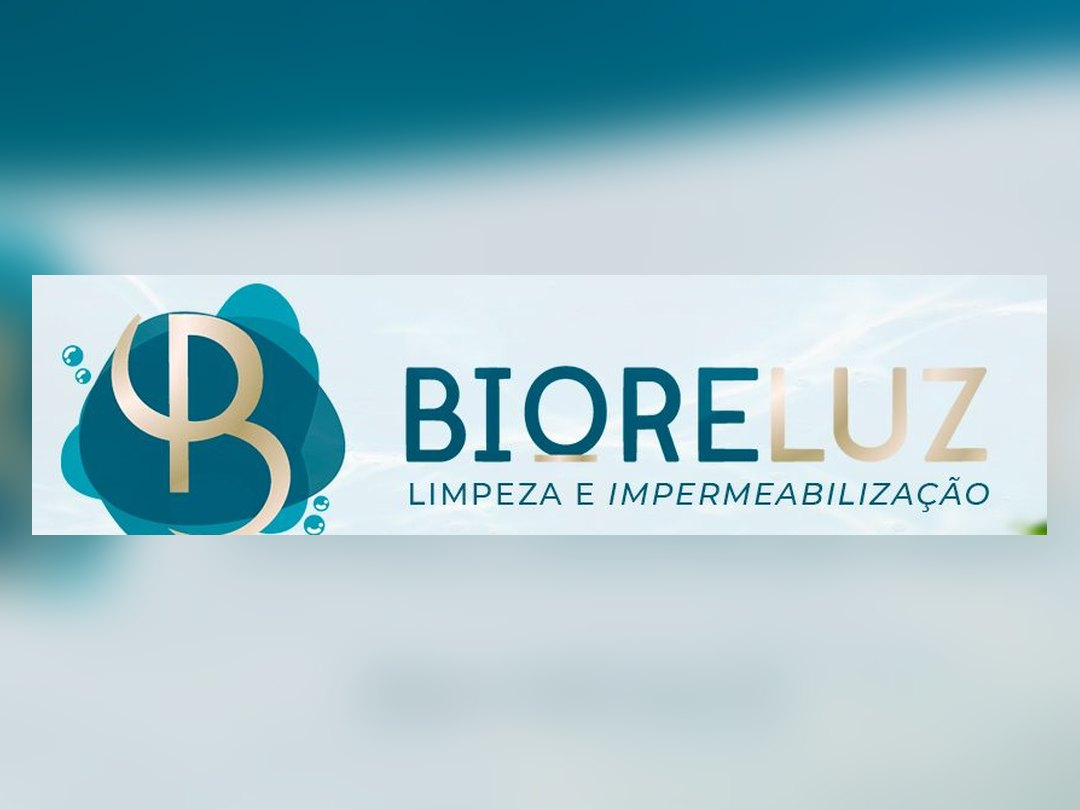
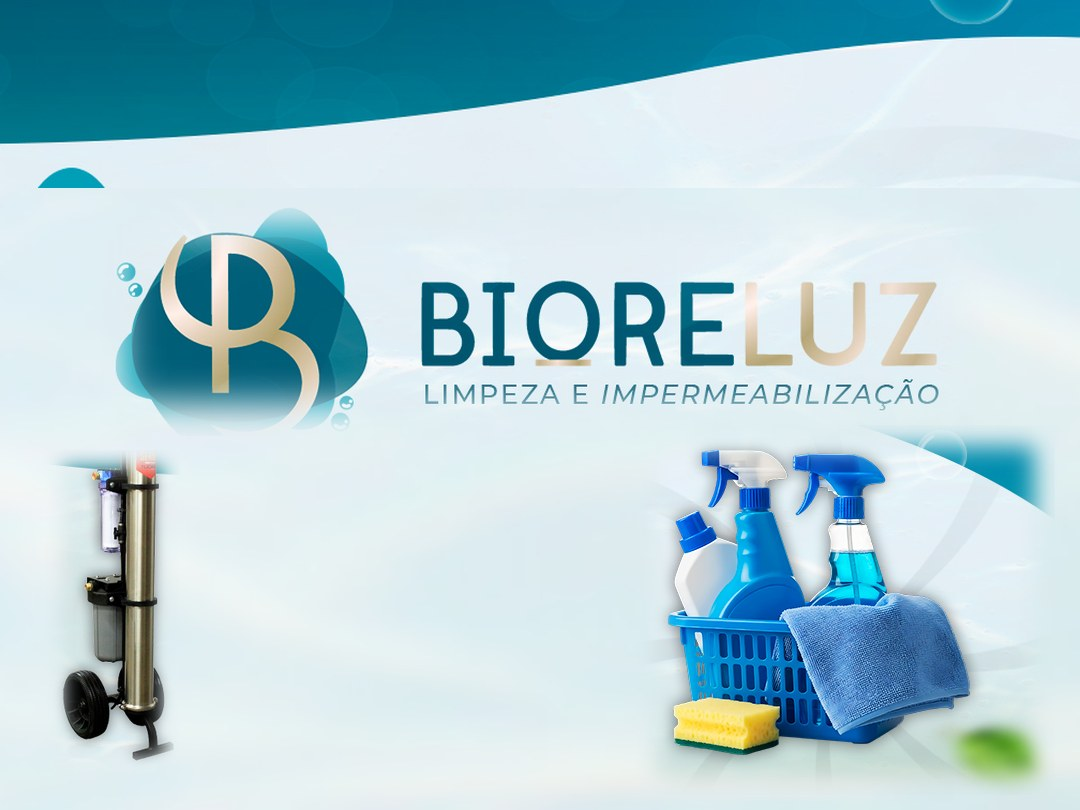
feat(clube): recorte mobile proprio da BioReluz e da Insurance & Sante
A versao mobile das duas era o banner largo encolhido dentro de um fundo
borrado (banners-mobile.py): no celular a marca ficava minuscula no meio
da tela. Agora a arte e remontada no 4:3 — fundo da propria marca ocupando
a tela e os elementos (logo, produtos, lista, familia) reposicionados em
tamanho util, com emenda suavizada.

Receita em scripts/banners-mobile-remontagem.py pra poder refazer quando a
agencia mandar arte nova.

diff --git a/scripts/banners-mobile-remontagem.py b/scripts/banners-mobile-remontagem.py
@@ -1,0 +1,78 @@
+# -*- coding: utf-8 -*-
+"""Recorte mobile das artes BioReluz e Insurance & Sante.
+
+Diferente do banners-mobile.py (que so encolhe a faixa larga dentro de um
+fundo borrado), aqui a arte e REMONTADA: fundo da propria marca ocupando a
+tela inteira e os elementos (logo, produtos, familia) reposicionados em
+tamanho util no 4:3 do celular. Mascara com borda suave pra nao aparecer
+emenda no fundo texturizado.
+"""
+from pathlib import Path
+from PIL import Image, ImageFilter, ImageDraw
+
+SRC = Path(r"C:\Users\Eduardo Hayata\Downloads\clube-vantagens\src\assets\banners")
+OUT = SRC / "mobile"
+OUT.mkdir(parents=True, exist_ok=True)
+CANVAS = (1080, 810)
+
+
+def cover(im, size, blur=0):
+    cw, ch = size
+    s = max(cw / im.width, ch / im.height)
+    r = im.resize((round(im.width * s), round(im.height * s)), Image.LANCZOS)
+    left, top = (r.width - cw) // 2, (r.height - ch) // 2
+    r = r.crop((left, top, left + cw, top + ch))
+    return r.filter(ImageFilter.GaussianBlur(blur)) if blur else r
+
+
+def largura(im, w):
+    return im.resize((w, round(im.height * w / im.width)), Image.LANCZOS)
+
+
+def colar_suave(canvas, img, pos, feather=26):
+    m = Image.new("L", img.size, 0)
+    d = ImageDraw.Draw(m)
+    d.rectangle([feather, feather, img.width - feather, img.height - feather], fill=255)
+    canvas.paste(img, pos, m.filter(ImageFilter.GaussianBlur(feather / 2)))
+
+
+# ─── BioReluz ───
+b = Image.open(SRC / "bioreluz-banner.jpg").convert("RGB")
+# fundo: faixa de agua logo abaixo do logo — mesma luz e textura da area onde
+# o logo vai cair, senao aparece retangulo de tom diferente na emenda.
+fundo = cover(b.crop((620, 350, 1400, 462)), CANVAS, blur=9)
+onda = largura(b.crop((600, 0, 1450, 148)), CANVAS[0])
+fundo.paste(onda, (0, 0))
+
+logo = largura(b.crop((470, 120, 1310, 345)), 900)
+colar_suave(fundo, logo, ((CANVAS[0] - logo.width) // 2, 195), feather=34)
+
+# maquina menor e mais pra baixo: encostava no B do logo
+# corte abaixo da onda escura: com ela junto aparecia um retangulo
+# escuro em volta da maquina na agua clara.
+maquina = largura(b.crop((178, 78, 338, 462)), 135)
+colar_suave(fundo, maquina, (45, CANVAS[1] - 360), feather=18)
+
+produtos = largura(b.crop((1480, 70, 1900, 440)), 420)
+colar_suave(fundo, produtos, (CANVAS[0] - produtos.width - 25, CANVAS[1] - produtos.height - 15), feather=22)
+
+fundo.save(OUT / "bioreluz.jpg", "JPEG", quality=88, optimize=True, progressive=True)
+
+# ─── Insurance & Sante ───
+i = Image.open(SRC / "insurance-sante-banner.jpg").convert("RGB")
+# fundo: a propria metade esquerda da arte, onde a marca ja vive — tom igual
+# faixa da borda esquerda: degrade puro. Pegar a metade esquerda inteira
+# trazia o nome da marca borrado como fantasma atras da lista.
+fundo2 = cover(i.crop((0, 0, 125, 465)), CANVAS, blur=14)
+
+marca = largura(i.crop((120, 55, 740, 350)), 820)
+colar_suave(fundo2, marca, ((CANVAS[0] - marca.width) // 2, 55), feather=34)
+
+lista = largura(i.crop((1055, 118, 1410, 322)), 510)
+colar_suave(fundo2, lista, (50, 500), feather=30)
+
+familia = largura(i.crop((1430, 10, 1920, 465)), 400)
+colar_suave(fundo2, familia, (CANVAS[0] - familia.width - 5, CANVAS[1] - 372), feather=16)
+
+fundo2.save(OUT / "insurance-sante.jpg", "JPEG", quality=88, optimize=True, progressive=True)
+print("ok")
